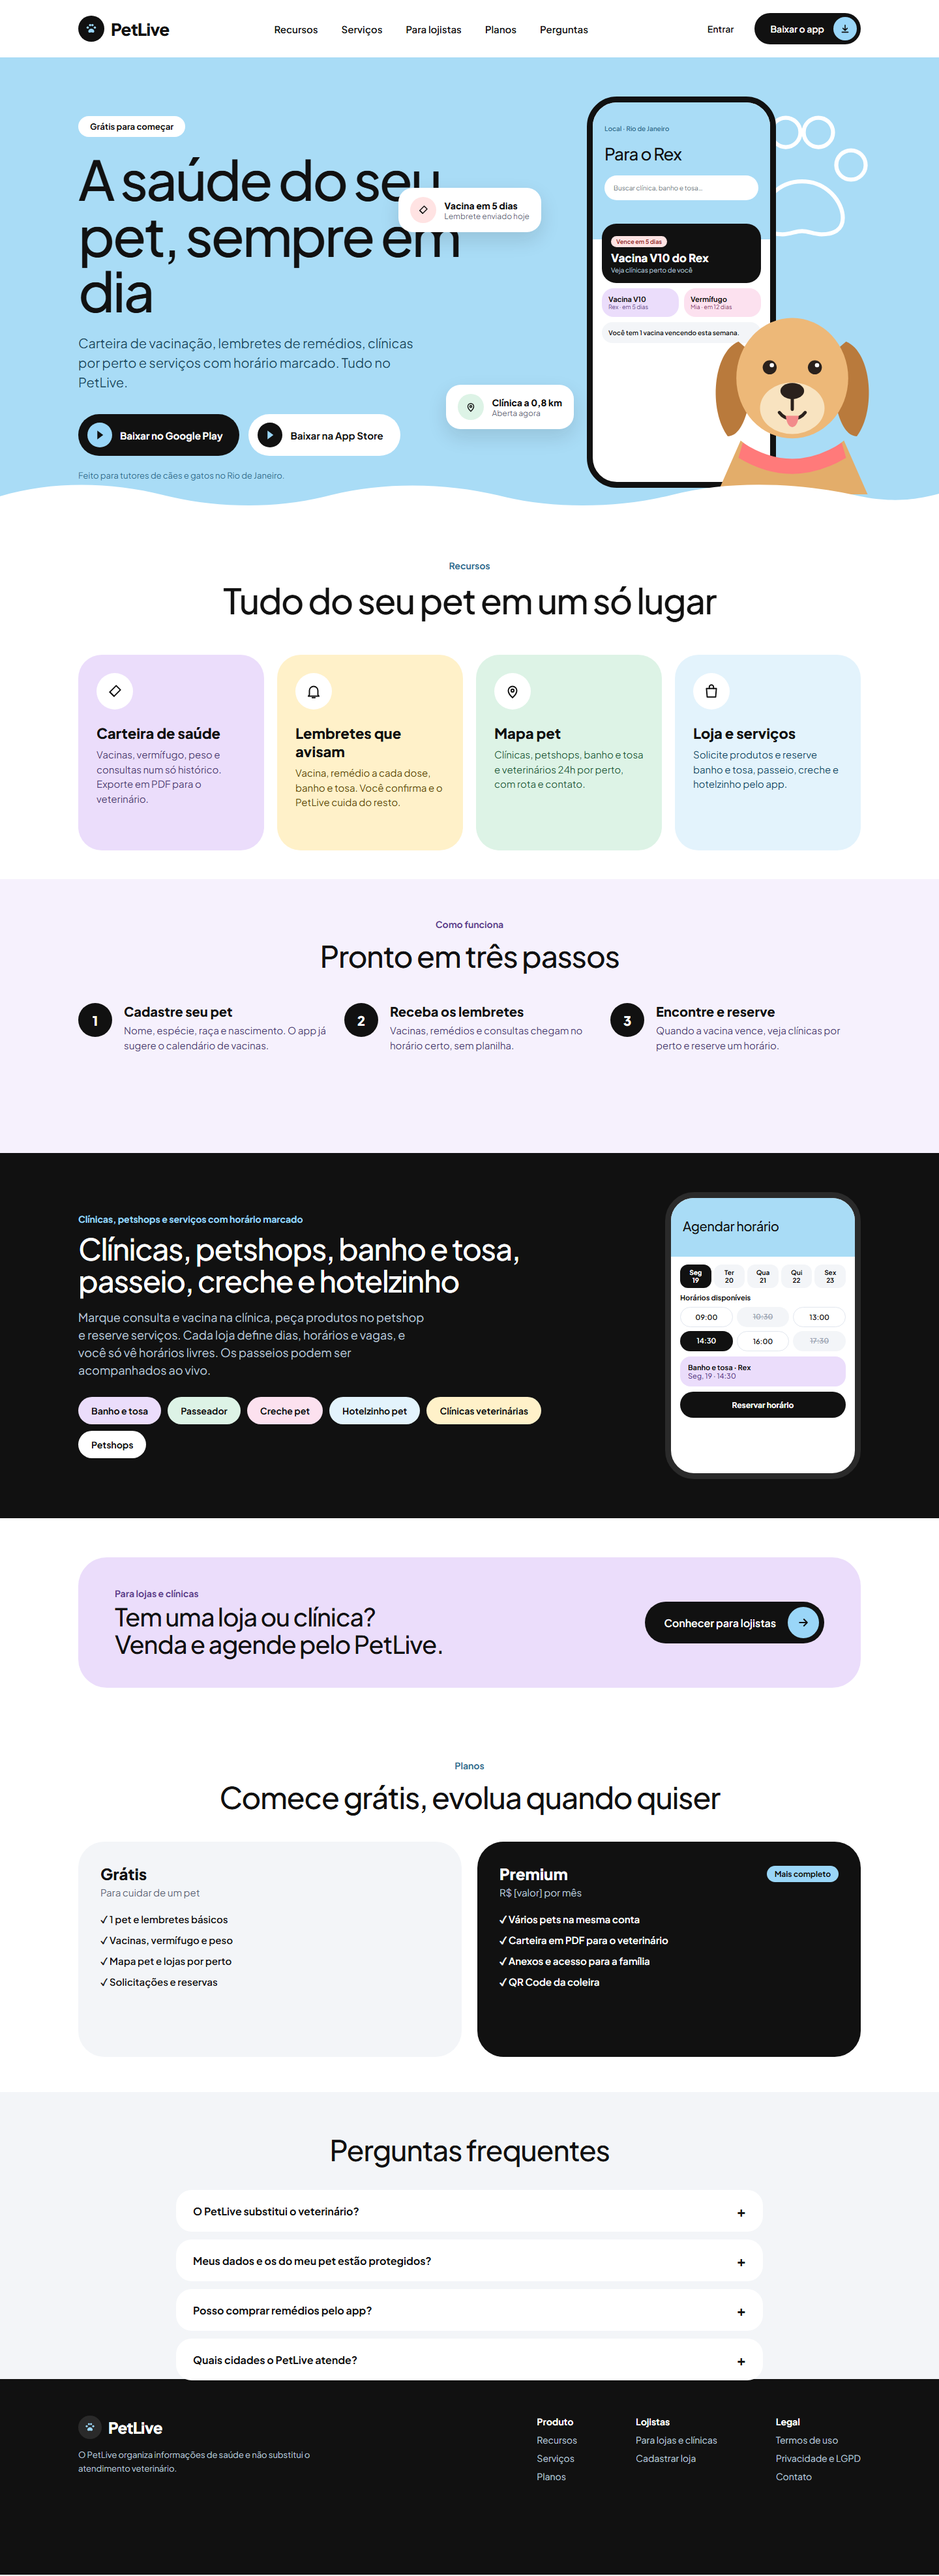
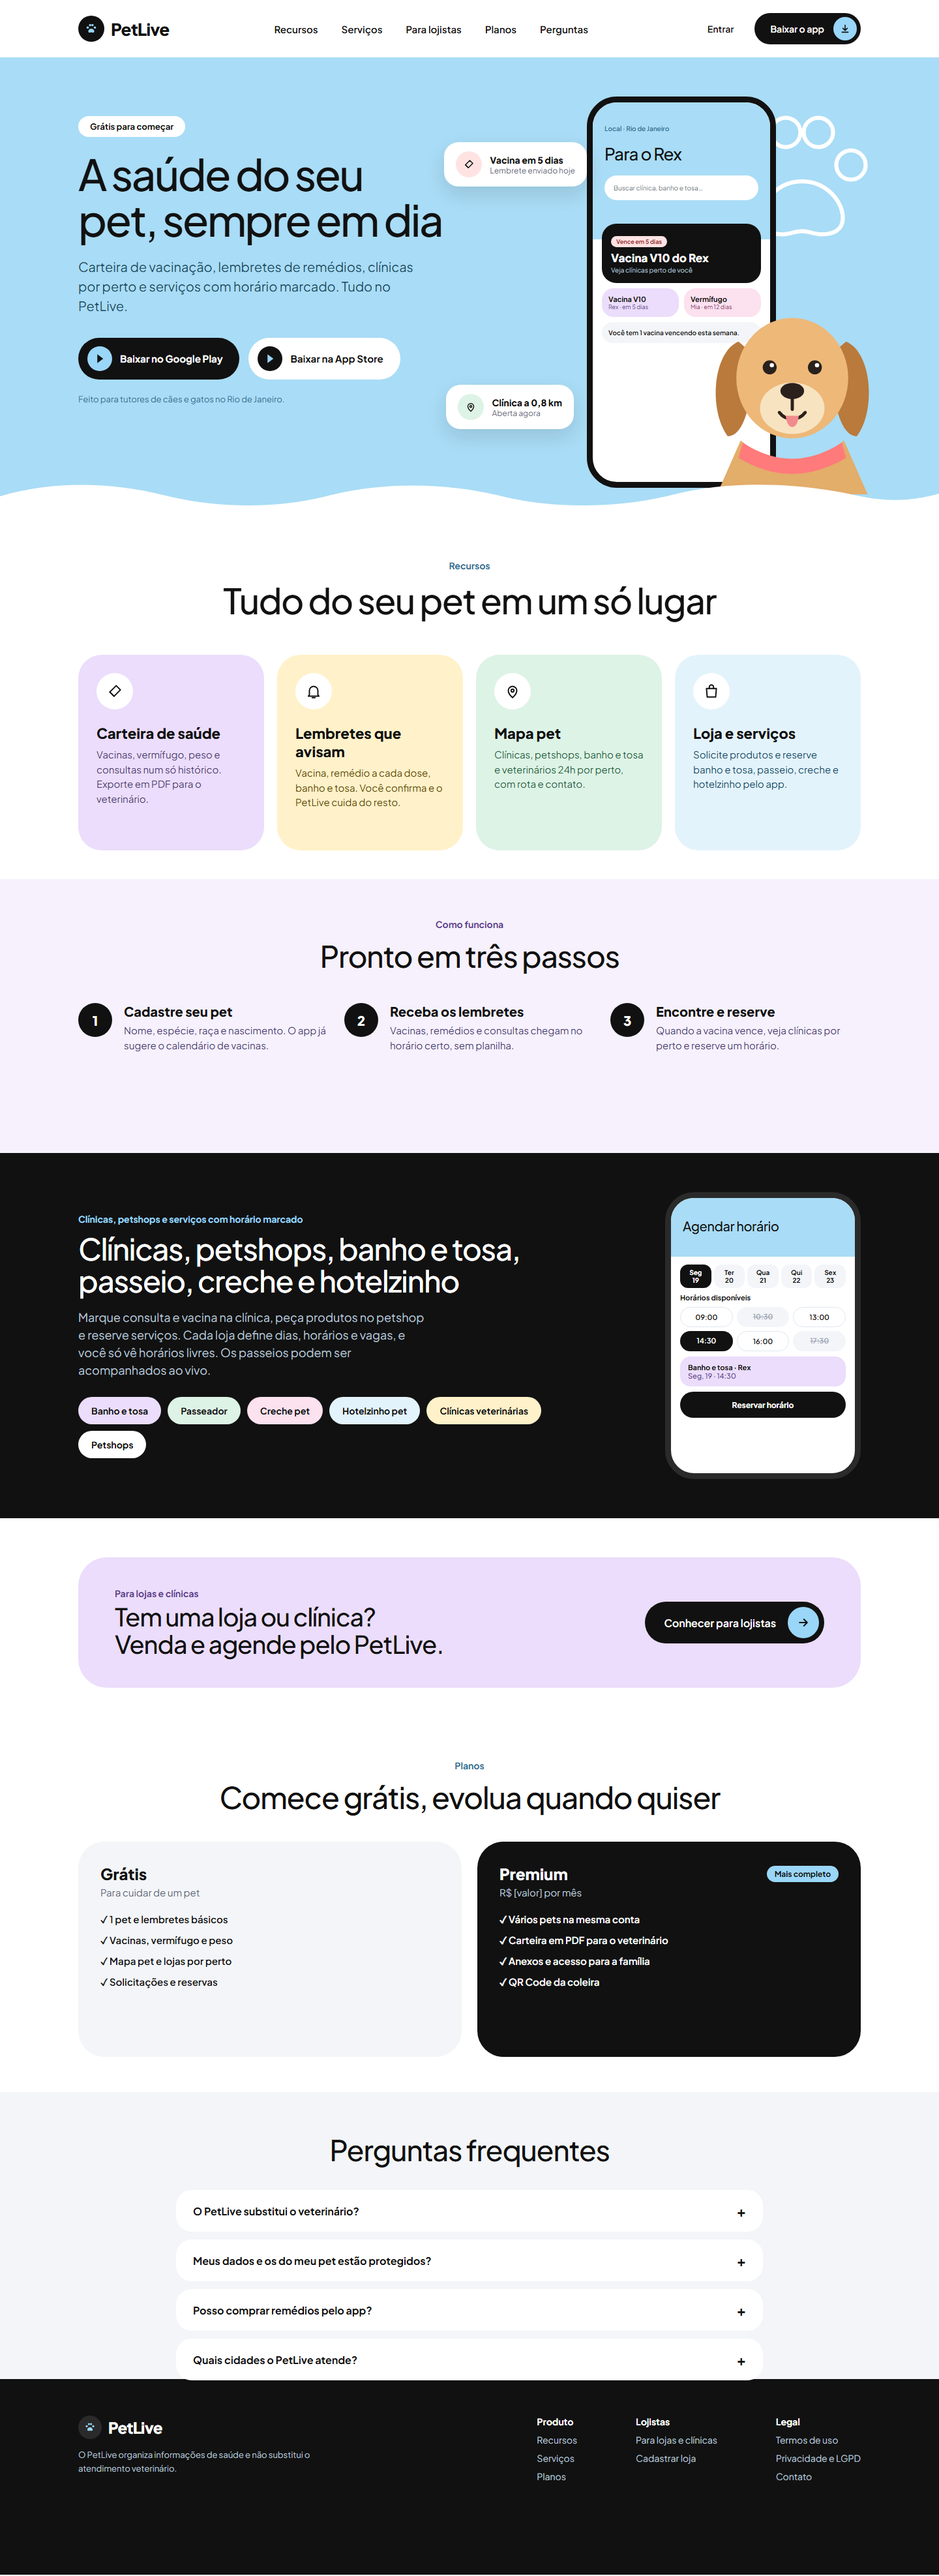
Prototipo: corrige sobreposicao no hero do site e no titulo de Reservar hotelzinho

Changed region(s): [[0.0625, 0.0311, 0.625, 0.1868]]

diff --git a/prototipo/SitePetLive.dc.html b/prototipo/SitePetLive.dc.html
@@ -46,9 +46,9 @@ nav a:hover{transform:translateY(-3px)}
 
   <section style="position:relative;height:700px;background:#A9DCF6;overflow:hidden">
     <svg style="position:absolute;right:60px;top:40px" width="300" height="300" viewBox="0 0 24 24" fill="none" stroke="#fff" stroke-width="0.5" stroke-linecap="round" stroke-linejoin="round" aria-hidden="true"><circle cx="6" cy="10" r="1.8"/><circle cx="10" cy="6" r="1.8"/><circle cx="14" cy="6" r="1.8"/><circle cx="18" cy="10" r="1.8"/><path d="M12 12c-3 0-5 2.5-5 4.5 0 1.5 1.2 2 2.6 2 1 0 1.6-.4 2.4-.4s1.4.4 2.4.4c1.4 0 2.6-.5 2.6-2 0-2-2-4.5-5-4.5z"/></svg>
-    <div style="position:absolute;left:120px;top:90px;width:620px">
+    <div style="position:absolute;left:120px;top:90px;width:560px">
       <span style="display:inline-block;background:#fff;border-radius:999px;padding:8px 18px;font-size:13px;font-weight:700">Grátis para começar</span>
-      <h1 style="margin:22px 0 0;font-weight:500;font-size:84px;line-height:1.02;letter-spacing:-0.04em">A saúde do seu pet, sempre em dia</h1>
+      <h1 style="margin:22px 0 0;font-weight:500;font-size:66px;line-height:1.06;letter-spacing:-0.04em">A saúde do seu pet, sempre em dia</h1>
       <p style="margin:22px 0 0;font-size:20px;line-height:1.5;color:#1E4A63;max-width:520px">Carteira de vacinação, lembretes de remédios, clínicas por perto e serviços com horário marcado. Tudo no PetLive.</p>
       <div style="display:flex;gap:14px;margin-top:34px">
         <span style="height:64px;padding:0 26px 0 14px;border-radius:32px;background:#111;color:#fff;display:flex;align-items:center;gap:12px;font-size:15px;font-weight:700"><span style="width:38px;height:38px;border-radius:50%;background:#9AD6F8;display:flex;align-items:center;justify-content:center"><svg width="18" height="18" viewBox="0 0 24 24" fill="#111" aria-hidden="true"><path d="M7 3l12 9-12 9z"/></svg></span>Baixar no Google Play</span>
@@ -66,7 +66,7 @@ nav a:hover{transform:translateY(-3px)}
       </div>
     </div>
     <svg style="position:absolute;right:60px;bottom:30px" width="330" height="330" viewBox="0 0 200 200" aria-hidden="true"><path d="M52 150Q100 190 148 150L170 200H30z" fill="#E3AD6A"/><path d="M50 58C26 68 22 122 40 146C58 146 64 102 64 70z" fill="#B97A3C"/><path d="M150 58C174 68 178 122 160 146C142 146 136 102 136 70z" fill="#B97A3C"/><ellipse cx="100" cy="92" rx="52" ry="56" fill="#EDB878"/><ellipse cx="100" cy="120" rx="30" ry="24" fill="#F8E3C0"/><ellipse cx="100" cy="104" rx="11" ry="7.5" fill="#2A211C"/><path d="M100 111v10M88 124c6 8 18 8 24 0" fill="none" stroke="#2A211C" stroke-width="3" stroke-linecap="round"/><path d="M94 127c1 14 11 14 12 0z" fill="#F28B8B"/><circle cx="79" cy="82" r="6.5" fill="#2A211C"/><circle cx="121" cy="82" r="6.5" fill="#2A211C"/><circle cx="81" cy="80" r="2" fill="#fff"/><circle cx="123" cy="80" r="2" fill="#fff"/><path d="M54 152Q100 182 146 152L150 166Q100 196 50 166z" fill="#FF7A7A"/></svg>
-    <div style="position:absolute;right:610px;top:200px;background:#fff;border-radius:22px;padding:14px 18px;box-shadow:0 12px 30px rgba(17,17,17,0.12);display:flex;align-items:center;gap:12px"><span style="width:40px;height:40px;border-radius:50%;background:#FFE3E3;display:flex;align-items:center;justify-content:center"><svg width="18" height="18" viewBox="0 0 24 24" fill="none" stroke="#111" stroke-width="1.9" stroke-linecap="round" stroke-linejoin="round" aria-hidden="true"><path d="M14 4l6 6-9 9-6-6z"/><path d="M5 13l6 6"/></svg></span><div><div style="font-weight:800;font-size:14px">Vacina em 5 dias</div><div style="font-size:12px;color:#5E6878">Lembrete enviado hoje</div></div></div>
+    <div style="position:absolute;right:540px;top:130px;background:#fff;border-radius:22px;padding:14px 18px;box-shadow:0 12px 30px rgba(17,17,17,0.12);display:flex;align-items:center;gap:12px"><span style="width:40px;height:40px;border-radius:50%;background:#FFE3E3;display:flex;align-items:center;justify-content:center"><svg width="18" height="18" viewBox="0 0 24 24" fill="none" stroke="#111" stroke-width="1.9" stroke-linecap="round" stroke-linejoin="round" aria-hidden="true"><path d="M14 4l6 6-9 9-6-6z"/><path d="M5 13l6 6"/></svg></span><div><div style="font-weight:800;font-size:14px">Vacina em 5 dias</div><div style="font-size:12px;color:#5E6878">Lembrete enviado hoje</div></div></div>
     <div style="position:absolute;right:560px;bottom:130px;background:#fff;border-radius:22px;padding:14px 18px;box-shadow:0 12px 30px rgba(17,17,17,0.12);display:flex;align-items:center;gap:12px"><span style="width:40px;height:40px;border-radius:50%;background:#DDF3E6;display:flex;align-items:center;justify-content:center"><svg width="18" height="18" viewBox="0 0 24 24" fill="none" stroke="#111" stroke-width="1.9" stroke-linecap="round" stroke-linejoin="round" aria-hidden="true"><path d="M12 21s-6-5.5-6-10a6 6 0 0 1 12 0c0 4.5-6 10-6 10z"/><circle cx="12" cy="11" r="2"/></svg></span><div><div style="font-weight:800;font-size:14px">Clínica a 0,8 km</div><div style="font-size:12px;color:#5E6878">Aberta agora</div></div></div>
     <svg style="position:absolute;left:0;bottom:-1px" width="1440" height="60" viewBox="0 0 1440 60" preserveAspectRatio="none" aria-hidden="true"><path d="M0 60V32C80 8 170 10 250 30C330 50 420 52 500 32C590 8 690 12 770 32C850 52 950 50 1030 30C1120 6 1230 12 1310 30C1370 44 1410 36 1440 28V60z" fill="#fff"/></svg>
   </section>

diff --git a/prototipo/AgendarHotel.dc.html b/prototipo/AgendarHotel.dc.html
@@ -37,7 +37,7 @@ nav a:hover{transform:translateY(-3px)}
 </style>
 </helmet>
 <div style="width:390px;height:844px;box-sizing:border-box;background:#fff;display:flex;flex-direction:column;overflow:hidden">
-  <div style="position:relative;height:170px;background:#A9DCF6;flex:none;overflow:hidden">
+  <div style="position:relative;height:210px;background:#A9DCF6;flex:none;overflow:hidden">
     <a href="Servicos.dc.html" aria-label="Voltar" style="position:absolute;left:24px;top:56px;width:46px;height:46px;border-radius:50%;background:#fff;display:flex;align-items:center;justify-content:center"><svg width="20" height="20" viewBox="0 0 24 24" fill="none" stroke="#111" stroke-width="2.2" stroke-linecap="round" stroke-linejoin="round" aria-hidden="true"><path d="M15 5l-7 7 7 7"/></svg></a>
     <span style="position:absolute;right:24px;top:66px;font-size:12px;font-weight:700;background:#fff;border-radius:999px;padding:5px 12px">Diárias</span>
     <div style="position:absolute;left:24px;top:106px;font-size:14px;font-weight:500;color:#2F6F93">[Nome da loja]</div>
